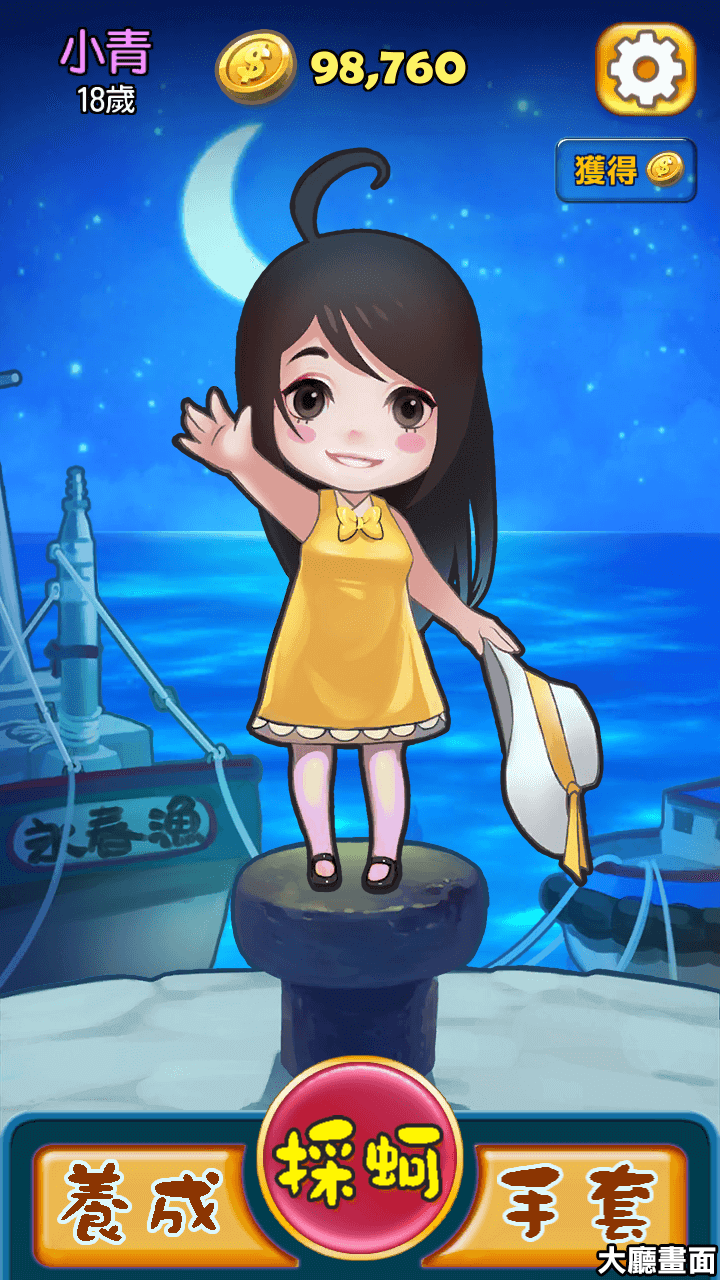
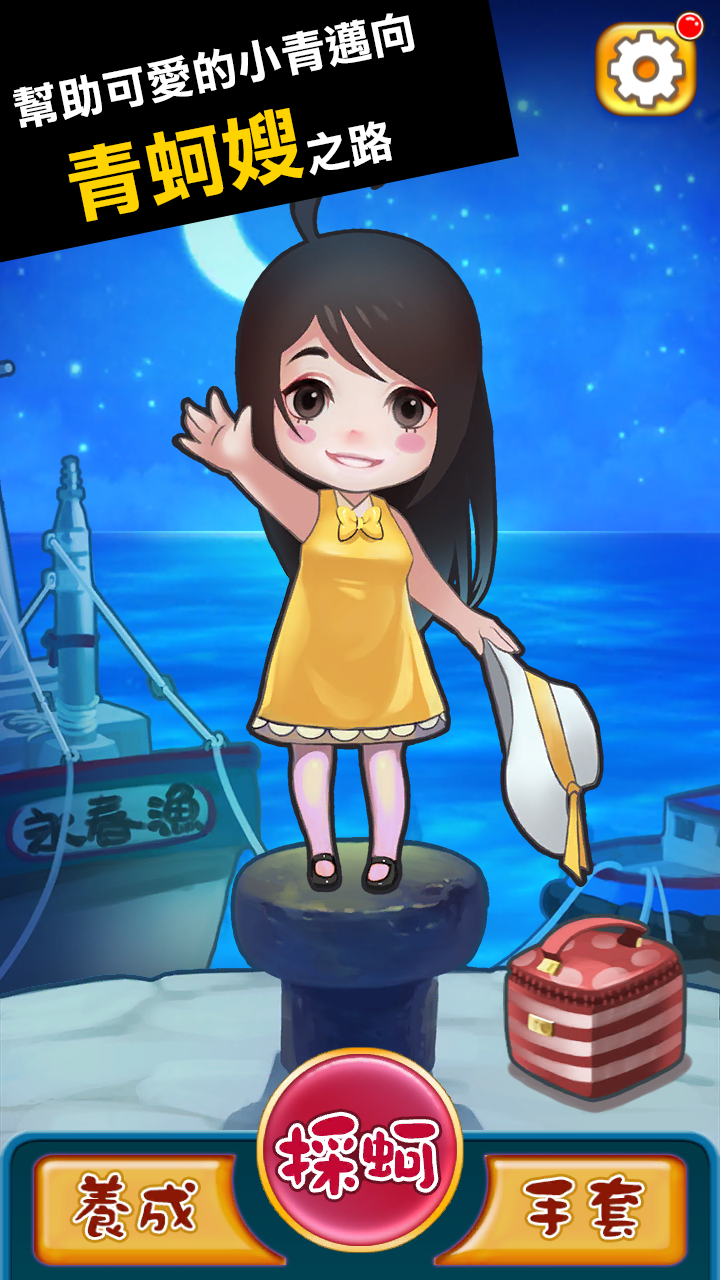
更新青蚵嫂圖片

diff --git a/index.html b/index.html
@@ -1354,6 +1354,9 @@
                                 <div class="col-md-6">
                                     <img src="img/portfolio/OysterObasan/Demo5.png" class="img-responsive img-centered" alt="" height="354" width="630">
                                 </div>
+                                <div class="col-md-6">
+                                    <img src="img/portfolio/OysterObasan/Demo6.png" class="img-responsive img-centered" alt="" height="354" width="630">
+                                </div>
                             </div>
                             <h3>Introduction</h3>
                             <hr>
